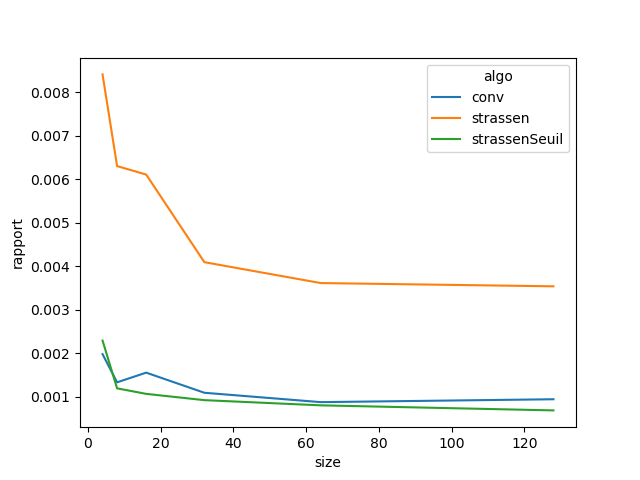
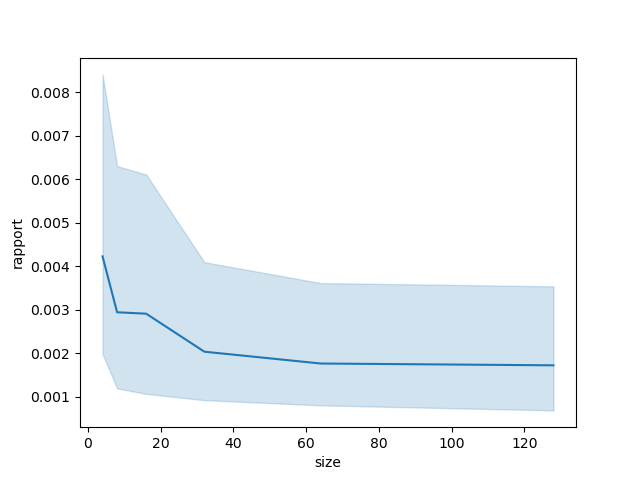
graph 2.0

Changed region(s): [[0.1562, 0.1562, 0.875, 0.875], [0.6562, 0.125, 0.9062, 0.3125]]

diff --git a/TP1-A23/analyse.py b/TP1-A23/analyse.py
@@ -12,7 +12,6 @@ def plot_test_puissance():
     for algo in df['algo'].unique():
         slope, intercept, r_value, p_value, std_err = stats.linregress( np.log(df[df['algo']==algo]['size']),np.log(df[df['algo']==algo]['temps']))
         print(f"Temps = {slope} * Fn + {intercept} pour l'algorithme {algo}")
-
     g = g.map(plt.plot, 'size', 'temps')
     g.set(xscale='log')
     g.set(yscale='log')
@@ -23,24 +22,38 @@ def plot_test_puissance():
 def plot_test_rapport():
     df = pd.read_csv('results.csv').groupby(['algo','size']).mean().reset_index()
     df['size'] = 2**df['size']
-    df['rapport'] = df['temps']/df['size']**2.59
-    g2 = sns.lineplot(df, x="size", y="rapport", hue='algo')
     for algo in df['algo'].unique():
-        last_point = df[df['algo']==algo].tail(1)['rapport'].values[0]
-        print(f"Rapport = {last_point} pour l'algorithme {algo}")
-    plt.savefig('test_rapport')
-    plt.close()
+        data = df.filter(df[df['algo'] ==algo])
+        if algo == 'conv':
+            data['rapport'] = data['temps']/data['size']**3
+        elif algo == 'strassen':
+            data['rapport'] = data['temps']/data['size']**2.807
+        elif algo == 'strassenSeuil':
+            data['rapport'] = data['temps']/data['size']**2.75
+        else : 
+            raise ValueError(f"Algorithme {algo} inconnu")
+        sns.lineplot(data, x="size", y="rapport")
+        plt.savefig(f"test_rapport_{algo}")
+        plt.close()
 
 def plot_test_constante():
     df = pd.read_csv('results.csv').groupby(['algo','size']).mean().reset_index()
     df['size'] = 2**df['size']
-    df['Fn'] = df['size']**3
     for algo in df['algo'].unique():
-        slope, intercept, r_value, p_value, std_err = stats.linregress(df[df['algo']==algo]['Fn'],df[df['algo']==algo]['temps'])
+        data = df.filter(df[df['algo'] ==algo])
+        if algo == 'conv':
+            data['Fn'] = data['size']**3
+        elif algo == 'strassen':
+            data['Fn'] = data['size']**2.807
+        elif algo == 'strassenSeuil':
+            data['Fn'] = data['size']**2.75
+        else : 
+            raise ValueError(f"Algorithme {algo} inconnu")
+        slope, intercept, r_value, p_value, std_err = stats.linregress(data['Fn'],data['temps'])
         print(f"Temps = {slope} * Fn + {intercept} pour l'algorithme {algo}")
-    g2 = sns.lineplot(df, x="Fn", y="temps", hue='algo')
-    plt.savefig('test_constante')
-    plt.close()
+        sns.lineplot(data, x="Fn", y="temps")
+        plt.savefig(f"test_constante_{algo}")
+        plt.close()
 
 plot_test_puissance()
 plot_test_rapport()
